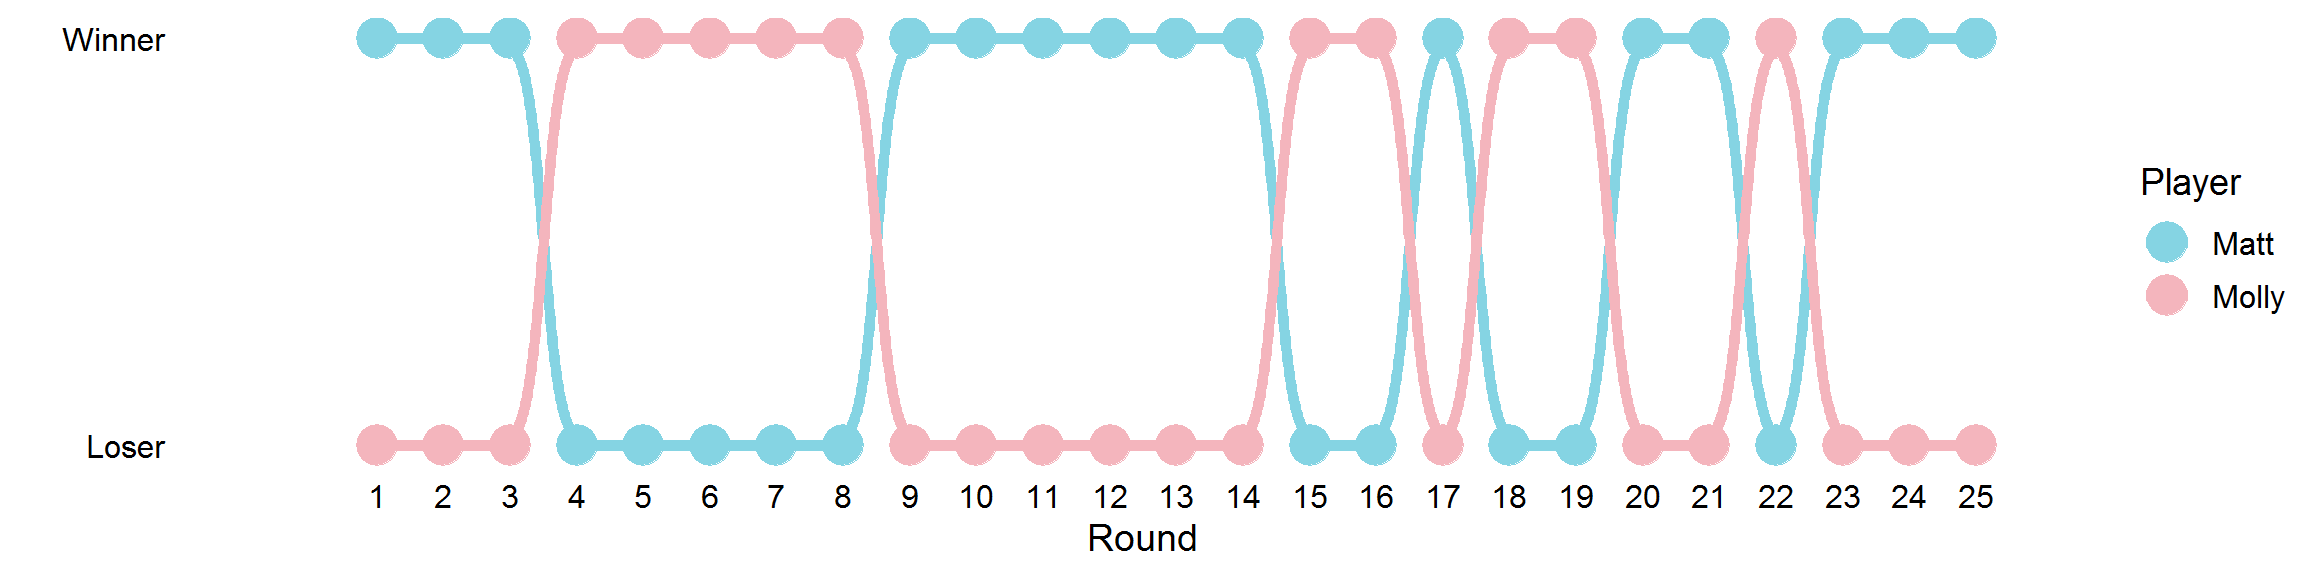
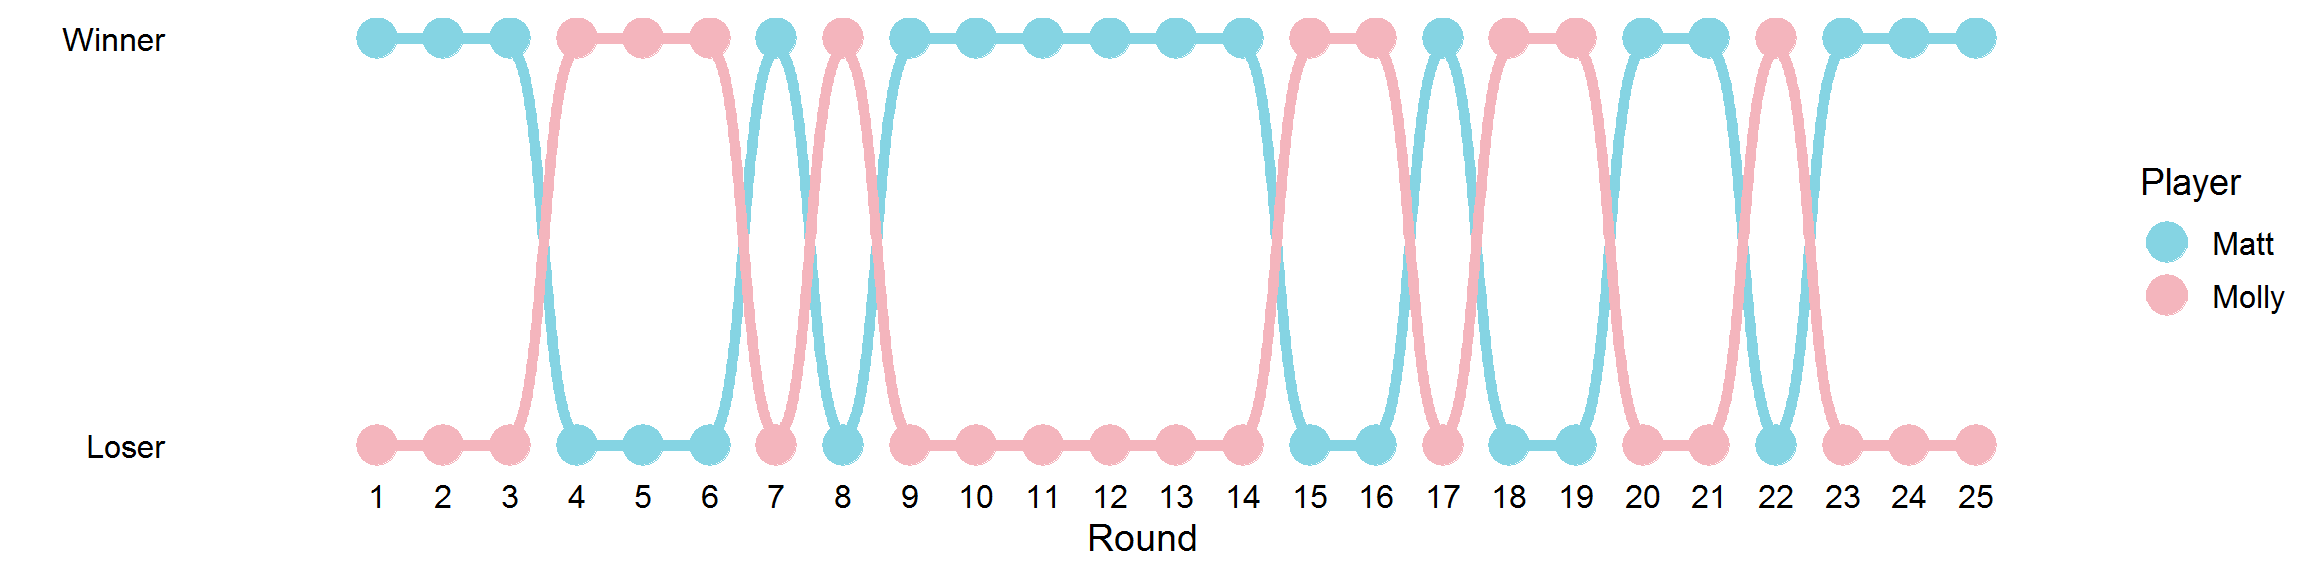
First post!

Changed region(s): [[0.3125, 0.0312, 0.375, 0.8125]]

diff --git a/content/post/2020-04-26-rummy-5-million.html b/content/post/2020-04-26-rummy-5-million.html
@@ -31,7 +31,7 @@ projects: []
 <p class="caption">Messy Data With Competitive Annotation</p>
 </div>
 <p>While the raw data explicitly shows that I’m a loser, we’ll see if that’s actually the case after some cleaning and viz.</p>
-<p><strong>Here’s a <code>tribble</code> of our cumulative rounds (last updated: Tue Apr 28 07:27:35 2020)</strong></p>
+<p><strong>Here’s a <code>tribble</code> of our cumulative rounds (last updated: Tue Apr 28 08:10:55 2020)</strong></p>
 <pre class="r"><code>library(tidyverse)
 
 rummy &lt;- tribble(
@@ -185,7 +185,7 @@ ggplot(rummy_bump, aes(Round,rank,color = Player)) +
   labs(y = &quot;&quot;) +
   scale_color_manual(values = wes_palette(n=2, name = &quot;Moonrise3&quot;))</code></pre>
 <p><img src="/post/2020-04-26-rummy-5-million_files/figure-html/ggbump%20clean-1.png" width="1152" /></p>
-<p>I know I said it’s not the best visualization I’ve (and it’s not!), but I still think it looks pretty cool, and is easy enough to see the change from win to loss.</p>
+<p>I know I said it’s not the best visualization I’ve made(and it’s not!), but I still think it looks pretty cool, and is easy enough to see the change from win to loss.</p>
 <p><strong>And now, the moment you’ve all been waiting for!</strong></p>
 <p>Here’s the current scoreboard for wins per round:</p>
 <pre class="r"><code>scoreboard &lt;- rummy_bump %&gt;%
@@ -214,10 +214,10 @@ Win
 Matt
 </td>
 <td style="text-align:right;">
-10
+9
 </td>
 <td style="text-align:right;">
-15
+16
 </td>
 </tr>
 <tr>
@@ -225,10 +225,10 @@ Matt
 Molly
 </td>
 <td style="text-align:right;">
-15
+16
 </td>
 <td style="text-align:right;">
-10
+9
 </td>
 </tr>
 </tbody>
